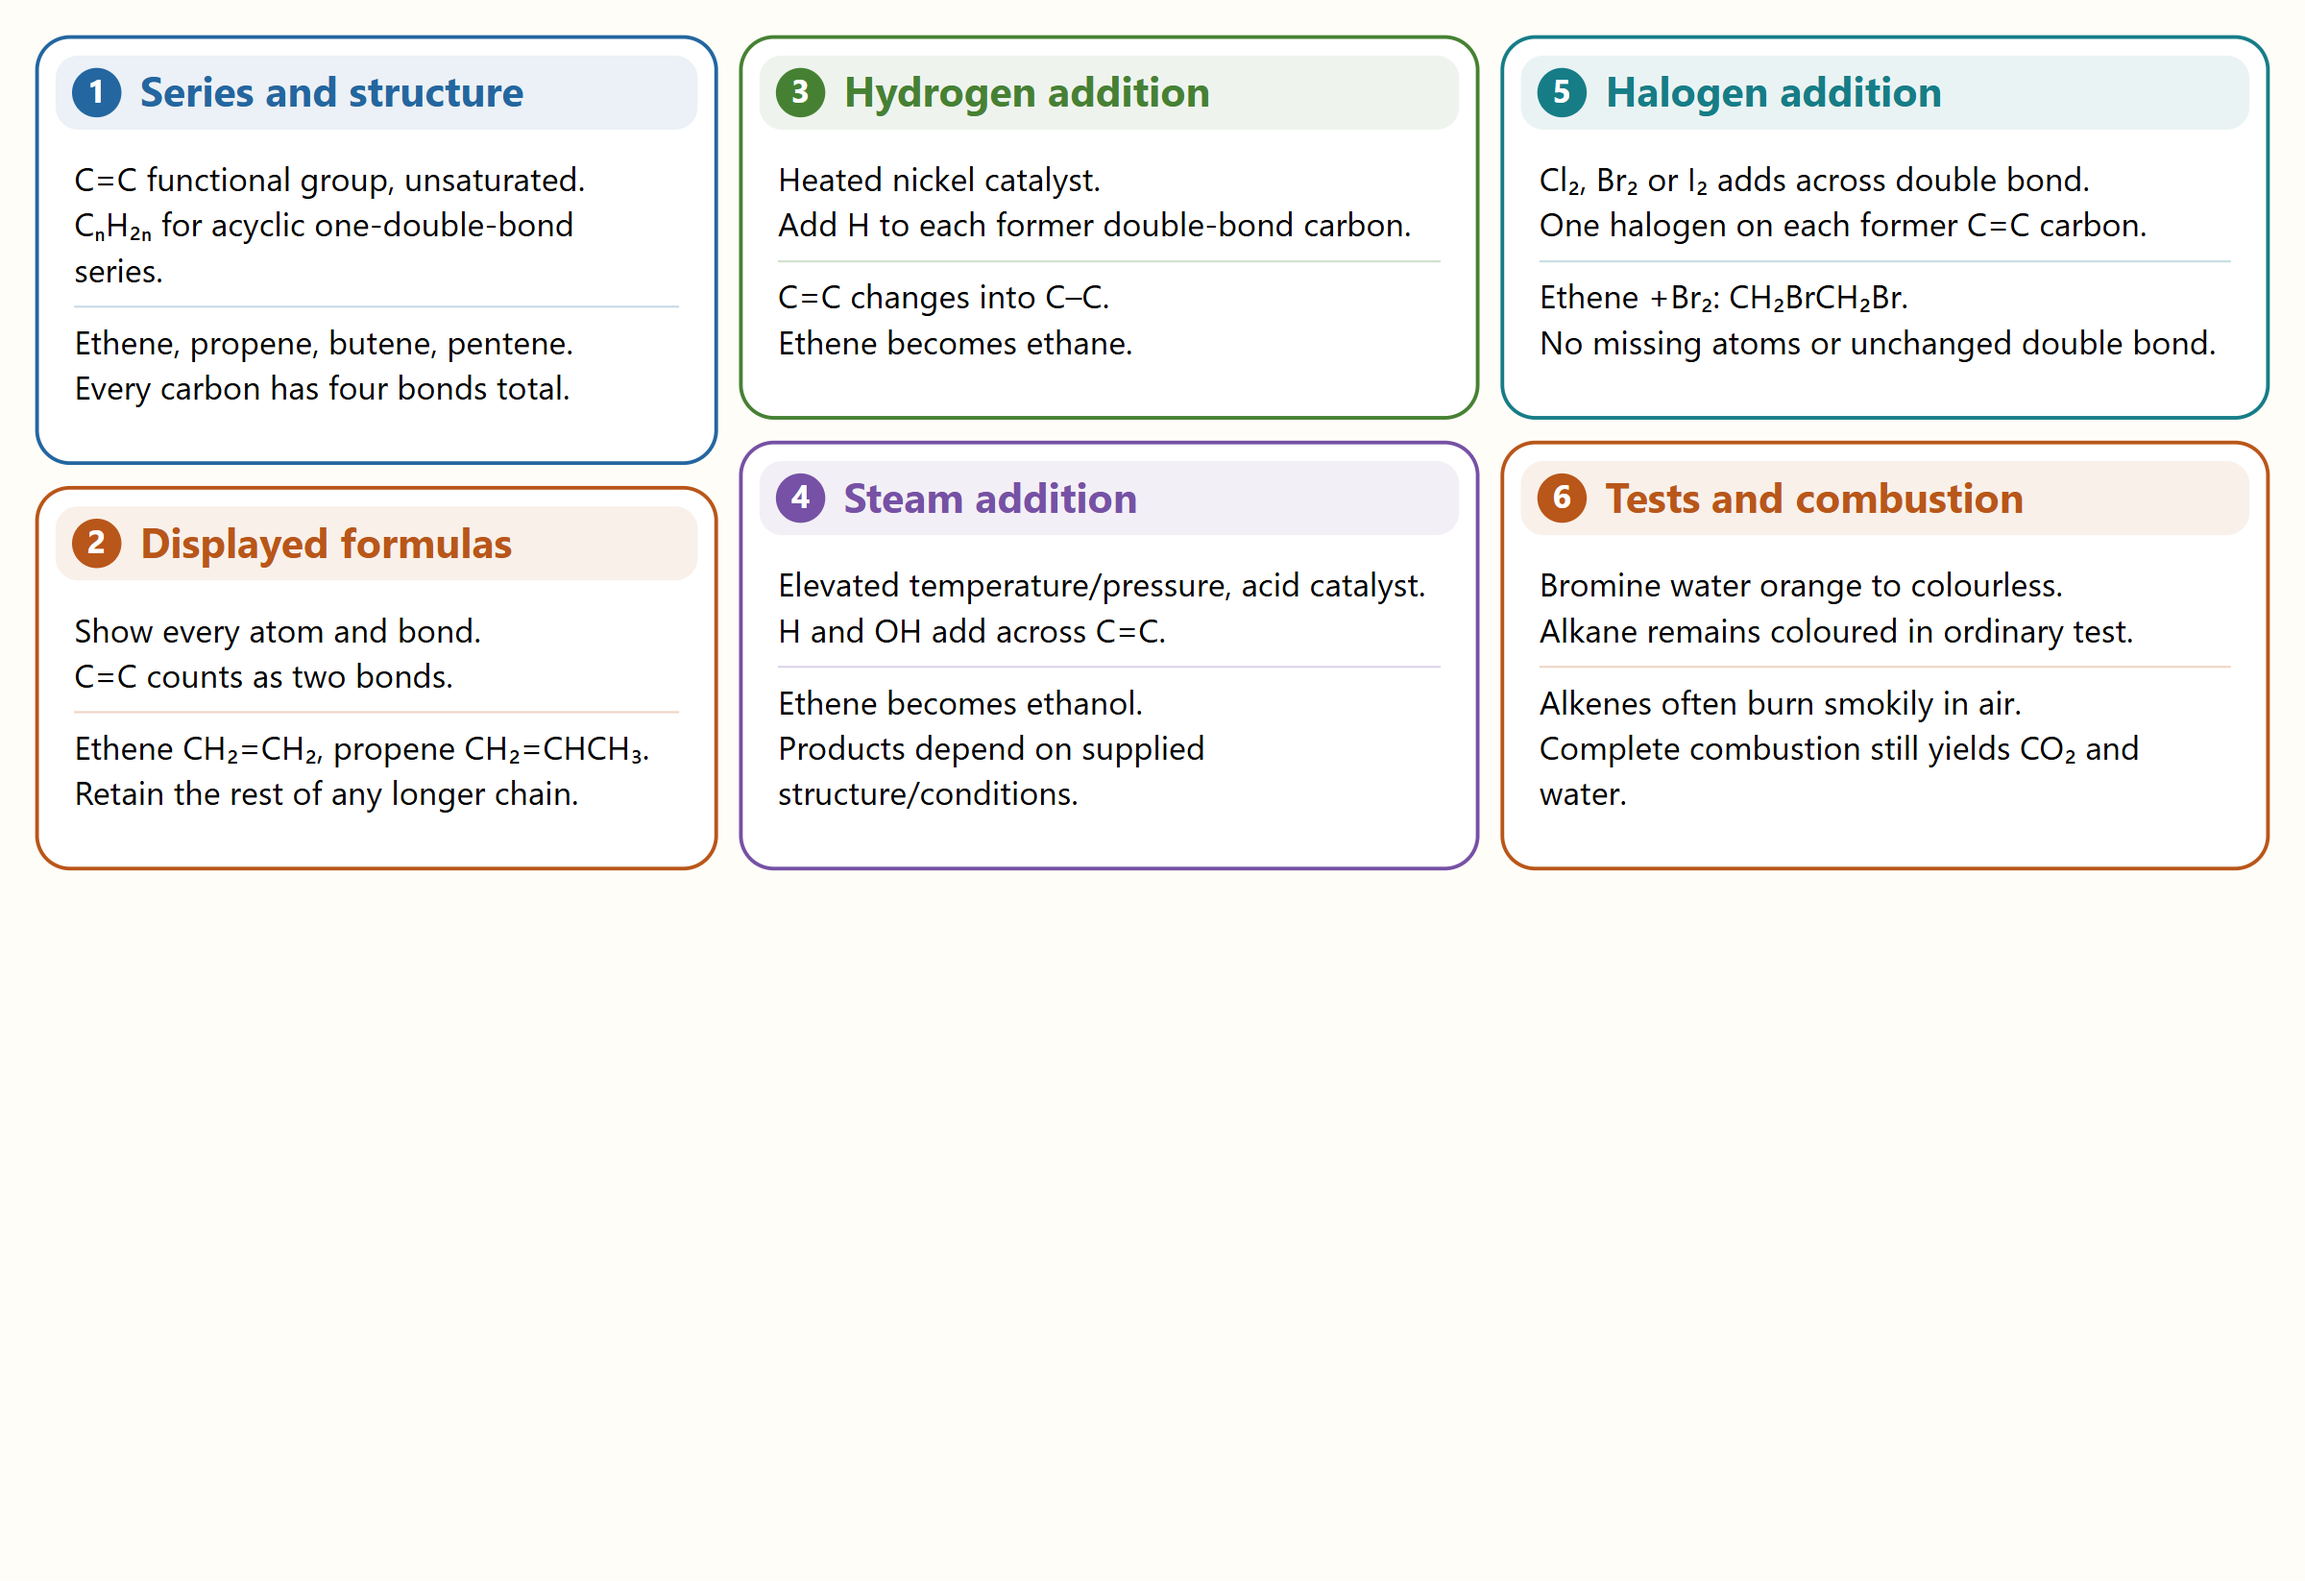
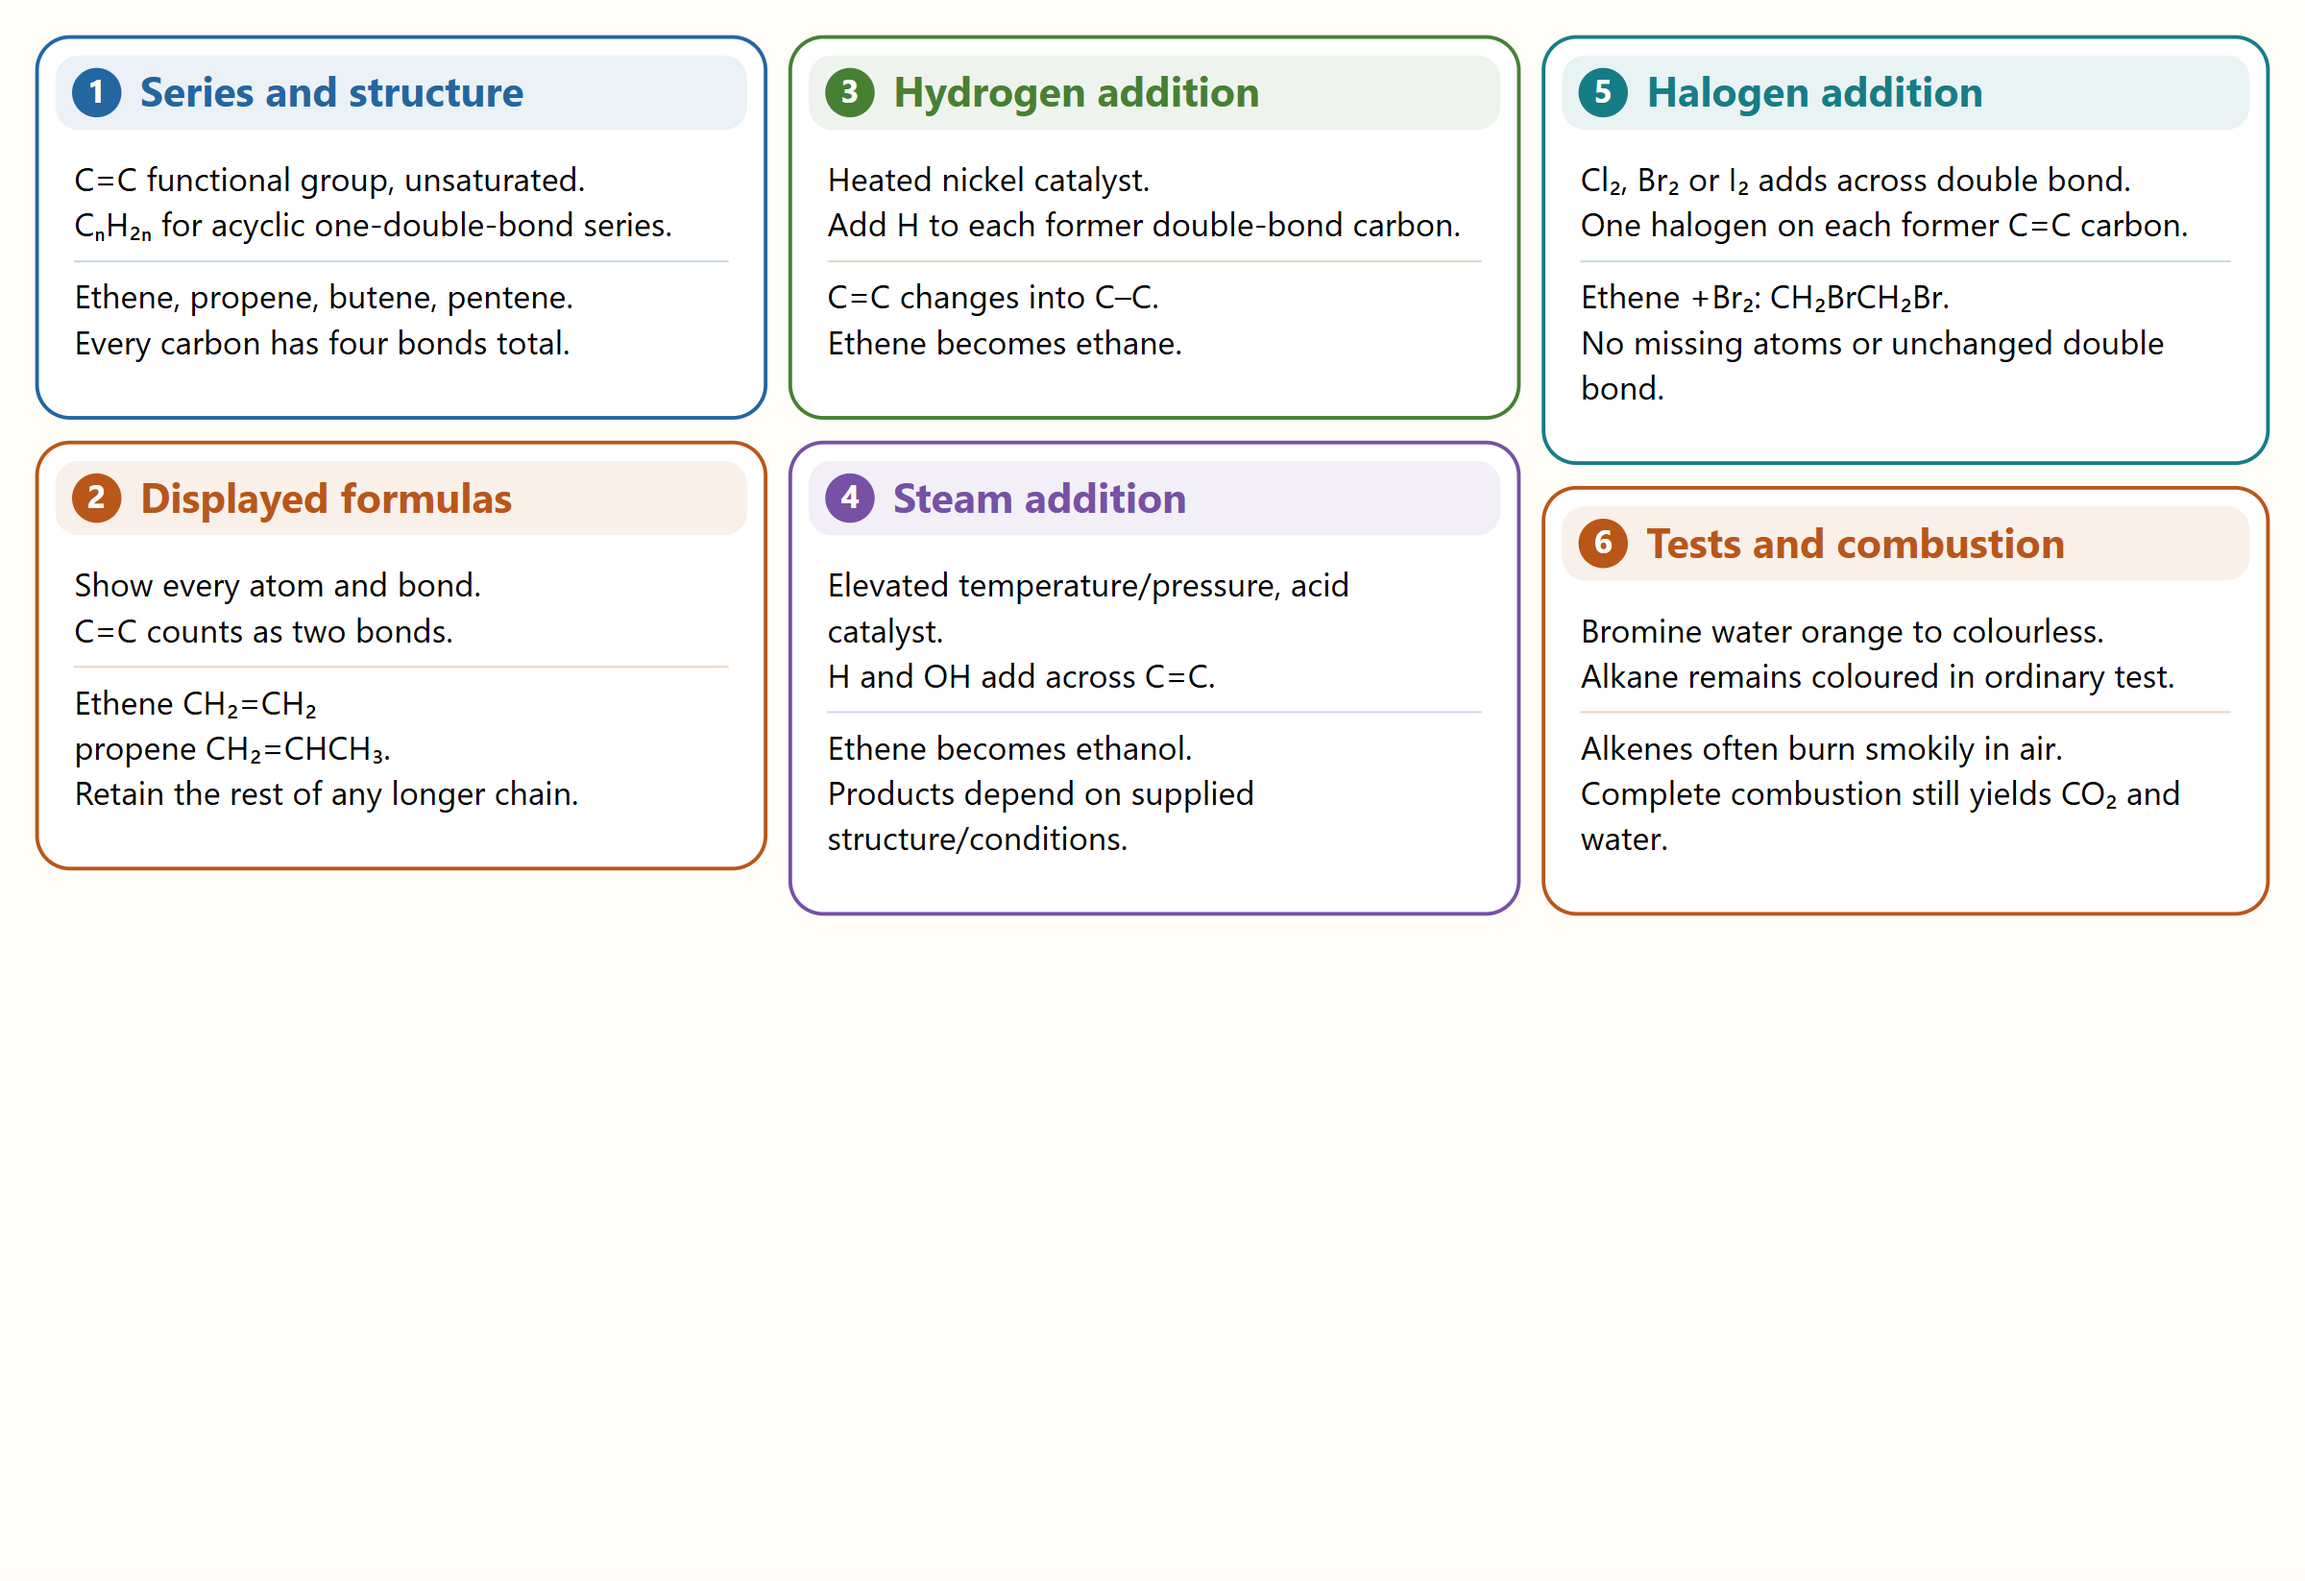
fix: review chemistry 07 mind-map equation layouts

Changed region(s): [[0.0, 0.0, 1.0, 0.5887], [0.9688, 0.5267, 1.0, 0.5577]]

diff --git a/library/resources/chemistry-aqa-organic-chemistry-00-organic-overview.html b/library/resources/chemistry-aqa-organic-chemistry-00-organic-overview.html
@@ -12,10 +12,12 @@
 <h2>Alkenes and addition</h2>
 <p>C=C, unsaturated, CₙH₂ₙ.</p>
 <p>Ethene, propene, butene, pentene.</p>
-<p>Hydrogen, steam or halogen adds across C=C.</p>
+<p>Hydrogen</p>
+<p>steam or halogen adds across C=C.</p>
 <p>Bromine water: orange to colourless.</p>
 <h2>Alcohols and acids</h2>
-<p>Alcohol –OH; fermentation makes ethanol.</p>
+<p>Alcohol –OH</p>
+<p>fermentation makes ethanol.</p>
 <p>Carboxylic acid –COOH, partial ionisation.</p>
 <p>Acid +carbonate: salt, water, carbon dioxide.</p>
 <p>Acid +alcohol: ester and water.</p>

diff --git a/library/resources/chemistry-aqa-organic-chemistry-05-natural-polymers.html b/library/resources/chemistry-aqa-organic-chemistry-05-natural-polymers.html
@@ -17,7 +17,8 @@
 <h2>Starch and cellulose</h2>
 <p>Both use glucose monomers.</p>
 <p>Different arrangements give different structures.</p>
-<p>Starch stores energy; cellulose supports plant walls.</p>
+<p>Starch stores energy</p>
+<p>cellulose supports plant walls.</p>
 <p>Do not infer identical properties from shared monomer.</p>
 <h2>DNA</h2>
 <p>Four types of nucleotide monomer.</p>

diff --git a/library/resources/chemistry-aqa-organic-chemistry-03-alcohols-acids-and-esters.html b/library/resources/chemistry-aqa-organic-chemistry-03-alcohols-acids-and-esters.html
@@ -2,7 +2,8 @@
 <h2>Alcohol family</h2>
 <p>–OH functional group.</p>
 <p>Methanol, ethanol, propanol, butanol.</p>
-<p>Uses: fuels/solvents; ethanol in drinks.</p>
+<p>Uses: fuels/solvents</p>
+<p>ethanol in drinks.</p>
 <p>Methanol is toxic, not drinkable.</p>
 <h2>Alcohol reactions</h2>
 <p>Sodium: hydrogen and sodium compound.</p>

diff --git a/library/resources/chemistry-aqa-organic-chemistry-02-alkenes-and-addition.html b/library/resources/chemistry-aqa-organic-chemistry-02-alkenes-and-addition.html
@@ -7,7 +7,8 @@
 <h2>Displayed formulas</h2>
 <p>Show every atom and bond.</p>
 <p>C=C counts as two bonds.</p>
-<p>Ethene CH₂=CH₂, propene CH₂=CHCH₃.</p>
+<p>Ethene CH₂=CH₂</p>
+<p>propene CH₂=CHCH₃.</p>
 <p>Retain the rest of any longer chain.</p>
 <h2>Hydrogen addition</h2>
 <p>Heated nickel catalyst.</p>

diff --git a/Chemistry - AQA/07 - Organic chemistry/Mind Maps/00-organic-overview.md b/Chemistry - AQA/07 - Organic chemistry/Mind Maps/00-organic-overview.md
@@ -26,13 +26,17 @@ C=C, unsaturated, CₙH₂ₙ.
 
 Ethene, propene, butene, pentene.
 
-Hydrogen, steam or halogen adds across C=C.
+Hydrogen
+
+steam or halogen adds across C=C.
 
 Bromine water: orange to colourless.
 
 ## Alcohols and acids
 
-Alcohol –OH; fermentation makes ethanol.
+Alcohol –OH
+
+fermentation makes ethanol.
 
 Carboxylic acid –COOH, partial ionisation.
 

diff --git a/Chemistry - AQA/07 - Organic chemistry/Mind Maps/05-natural-polymers.md b/Chemistry - AQA/07 - Organic chemistry/Mind Maps/05-natural-polymers.md
@@ -36,7 +36,9 @@ Both use glucose monomers.
 
 Different arrangements give different structures.
 
-Starch stores energy; cellulose supports plant walls.
+Starch stores energy
+
+cellulose supports plant walls.
 
 Do not infer identical properties from shared monomer.
 

diff --git a/Chemistry - AQA/07 - Organic chemistry/Mind Maps/02-alkenes-and-addition.md b/Chemistry - AQA/07 - Organic chemistry/Mind Maps/02-alkenes-and-addition.md
@@ -16,7 +16,9 @@ Show every atom and bond.
 
 C=C counts as two bonds.
 
-Ethene CH₂=CH₂, propene CH₂=CHCH₃.
+Ethene CH₂=CH₂
+
+propene CH₂=CHCH₃.
 
 Retain the rest of any longer chain.
 

diff --git a/Chemistry - AQA/07 - Organic chemistry/Mind Maps/03-alcohols-acids-and-esters.md b/Chemistry - AQA/07 - Organic chemistry/Mind Maps/03-alcohols-acids-and-esters.md
@@ -6,7 +6,9 @@
 
 Methanol, ethanol, propanol, butanol.
 
-Uses: fuels/solvents; ethanol in drinks.
+Uses: fuels/solvents
+
+ethanol in drinks.
 
 Methanol is toxic, not drinkable.
 
